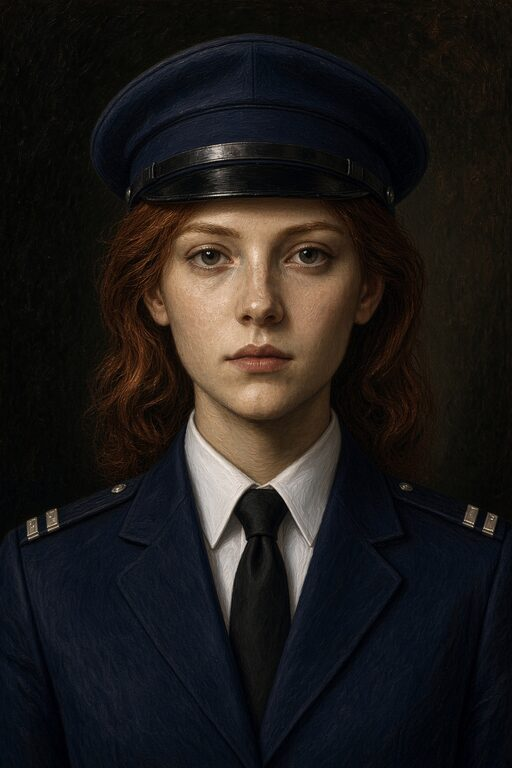
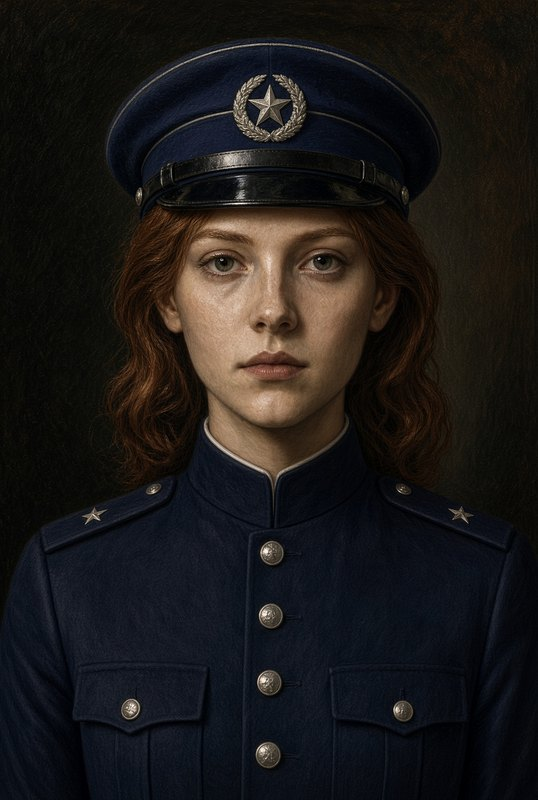
Hüte G03-G07 Dienst Schirm/Mütze

diff --git a/Division_Command_0.32c/web/js/ui/portraits.js b/Division_Command_0.32c/web/js/ui/portraits.js
@@ -275,7 +275,14 @@
     'f16-sand-none': 'lt',
     'f01-dienst-schirm': 'lt',
     'f01-dienst-mutze': 'lt',
-    'f02-dienst-mutze': 'lt'
+    'f02-dienst-mutze': 'lt',
+    'f03-dienst-schirm': 'lt',
+    'f03-dienst-mutze': 'lt',
+    'f04-dienst-mutze': 'lt',
+    'f05-dienst-mutze': 'lt',
+    'f06-dienst-mutze': 'lt',
+    'f07-dienst-schirm': 'lt',
+    'f07-dienst-mutze': 'lt'
   };
 
   function rankMeta(rank) {
